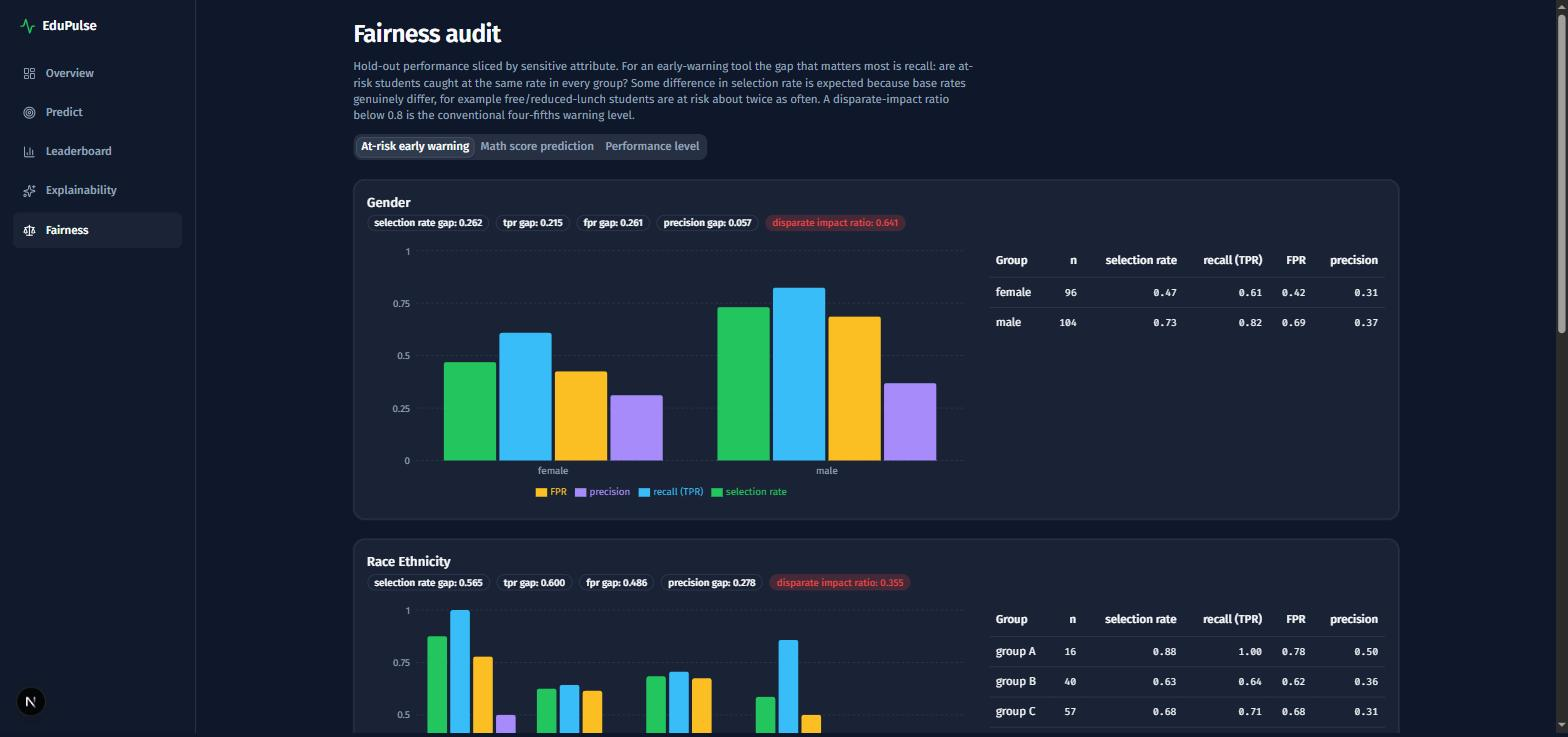
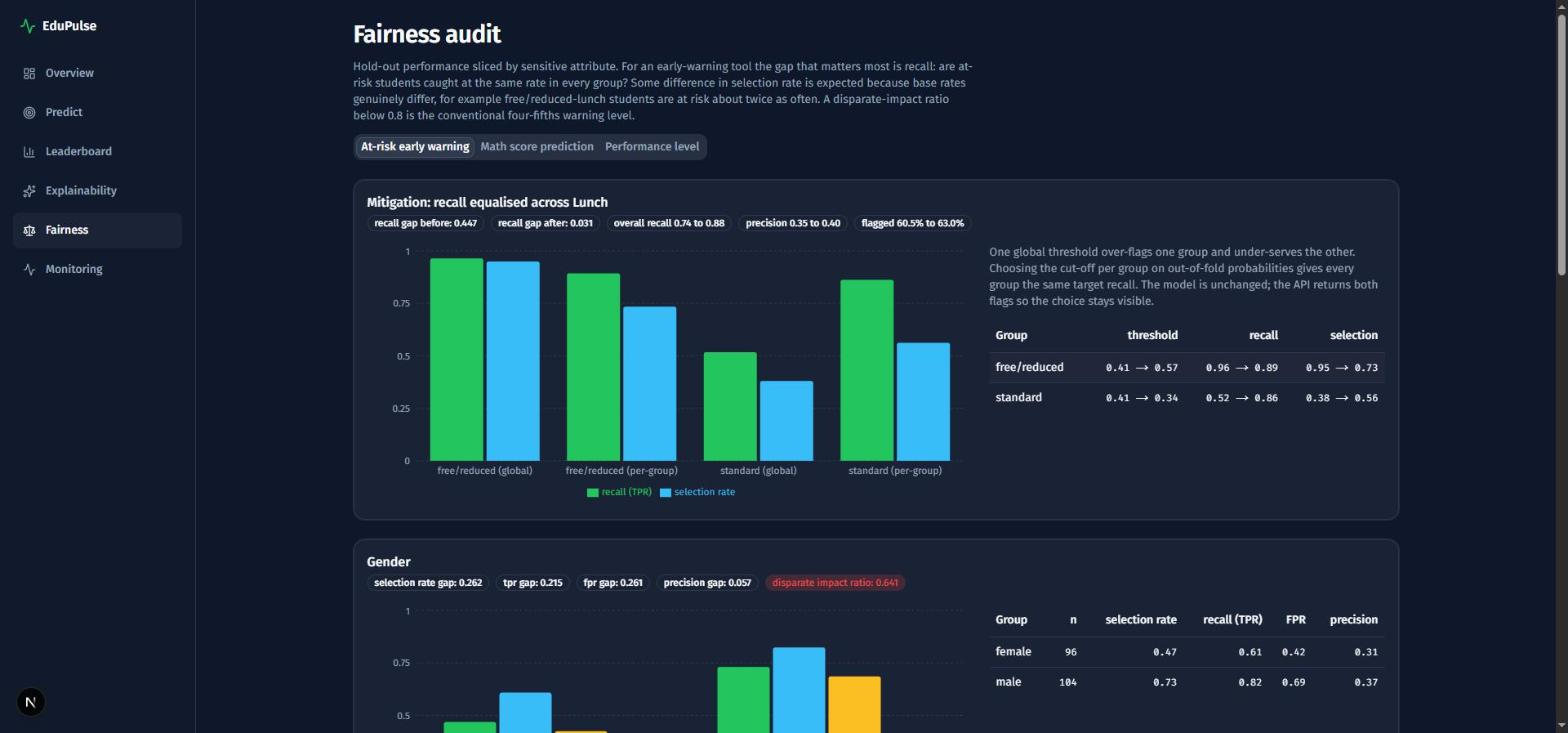
Refresh web screenshots for 1.4.0, allow 127.0.0.1 as a dev origin

diff --git a/web/next.config.ts b/web/next.config.ts
@@ -2,6 +2,9 @@ import type { NextConfig } from "next";
 
 const nextConfig: NextConfig = {
   output: "standalone",
+  // Next 16 blocks dev resources from origins other than the bound host; without this,
+  // opening http://127.0.0.1:3000 during `next dev` renders the page but never hydrates.
+  allowedDevOrigins: ["127.0.0.1"],
 };
 
 export default nextConfig;

diff --git a/README.md b/README.md
@@ -207,8 +207,12 @@ API_URL=http://localhost:8000 npm run dev      # http://localhost:3000, with `ed
 
 <table>
 <tr>
-<td><img src="docs/screenshots/web-predict.jpg" alt="Web app, predict page"/></td>
+<td><img src="docs/screenshots/web-predict.jpg" alt="Web app, predict page with both flags"/></td>
 <td><img src="docs/screenshots/web-leaderboard.jpg" alt="Web app, leaderboard page"/></td>
+</tr>
+<tr>
+<td><img src="docs/screenshots/web-fairness.jpg" alt="Web app, fairness page with the mitigation table"/></td>
+<td><img src="docs/screenshots/web-monitoring.jpg" alt="Web app, drift monitoring page"/></td>
 </tr>
 </table>
 
